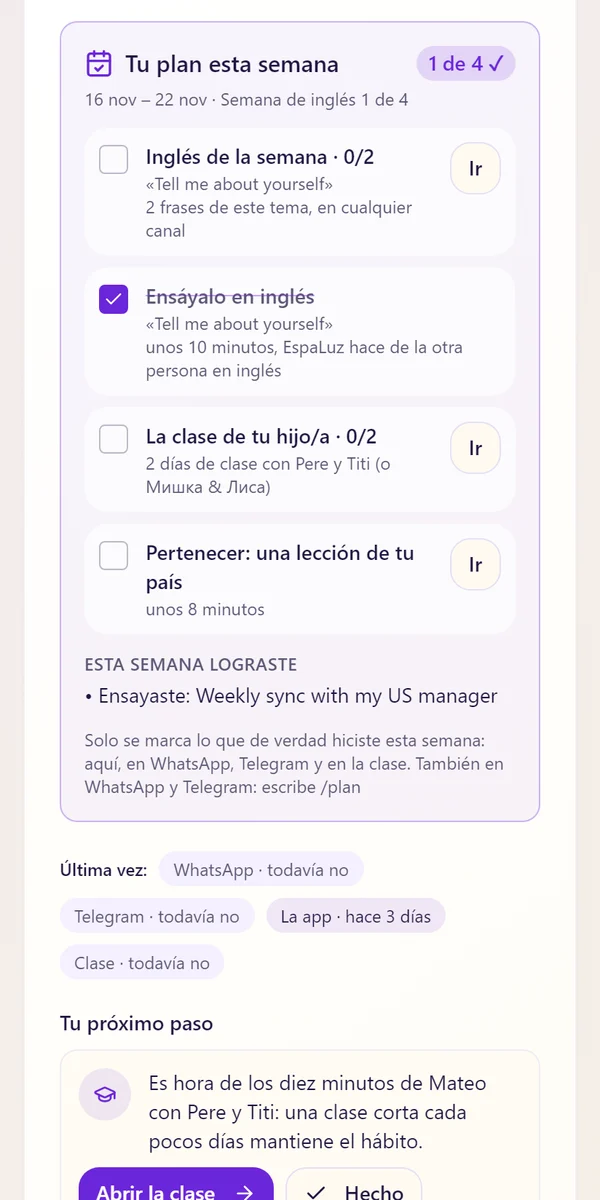
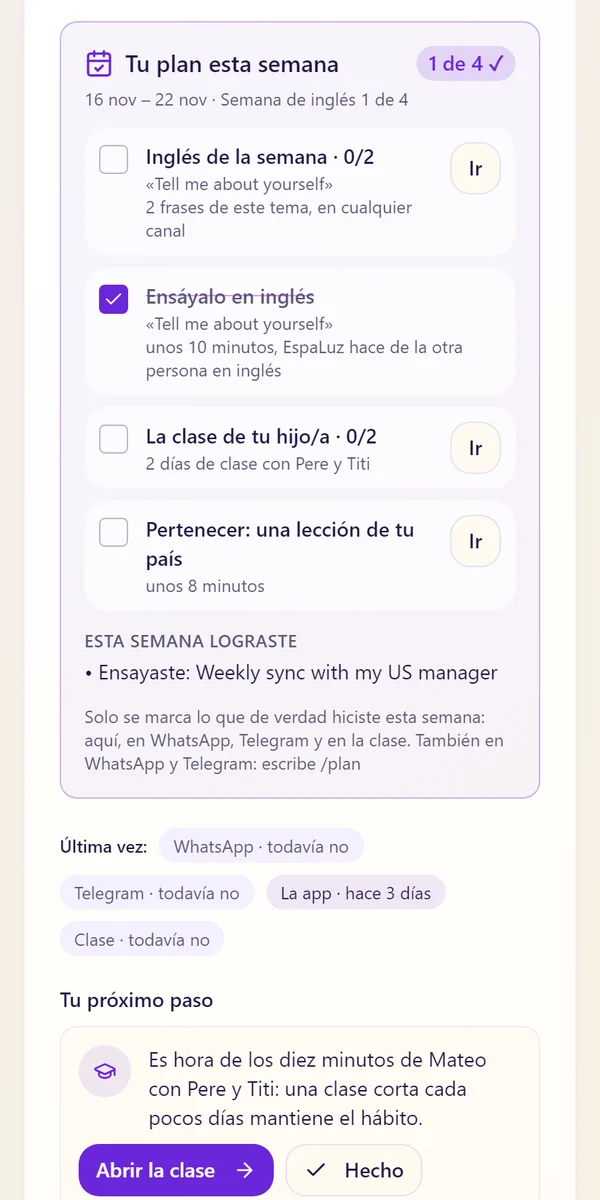
Strict readers fixes: settling families never get the beginner Spanish list (even before a country is set); header trial/plan badge translated (was English on ES/RU); Russian class mention on the Russian plan only; landing plan pictures recaptured

diff --git a/src/components/dashboard/LearningModules.tsx b/src/components/dashboard/LearningModules.tsx
@@ -102,7 +102,10 @@ export const LearningModules = () => {
   // lessons in one list, no level tabs, no badge - the most useful for a native speaker first, greetings last.
   const SETTLE_ORDER = ['local_expressions', 'time', 'newcomers_find_hard', 'school_life', 'family_and_friends', 'rhythm_of_the_year', 'folk_culture', 'everyday_life', 'food_and_table', 'greetings_and_courtesy'];
   const settleRank = (id: string) => { const i = SETTLE_ORDER.findIndex((k) => id.includes(k)); return i < 0 ? 99 : i; };
-  const settleList = settling && countryLessons.length > 0;
+  // 19 Nov 2026 (strict readers Carlos + Valentina): a settling family with no country yet (e.g. 'settle' typed on WhatsApp
+  // before the questionnaire) saw the BEGINNER Spanish list - Table 2 'must not happen'. Settling = never that list; with no
+  // country the list is empty and the existing line asks where home is now.
+  const settleList = settling;
   const filteredLessons = settleList
     ? [...countryLessons].filter((l) => !l.id.includes('greetings_and_courtesy')).sort((a, b) => settleRank(a.id) - settleRank(b.id)) // a native speaker does not need the greetings lesson
     : [...countryLessons, ...spanishLessons].filter(lesson => lesson.difficulty === selectedDifficulty);

diff --git a/src/pages/Dashboard.tsx b/src/pages/Dashboard.tsx
@@ -103,12 +103,12 @@ const Dashboard = () => {
 
   const getStatusBadge = () => {
     if (isSubscriptionActive) {
-      return <Badge variant="default" className="bg-green-500"><Crown className="h-3 w-3 mr-1" />Standard</Badge>;
+      return <Badge variant="default" className="bg-green-500"><Crown className="h-3 w-3 mr-1" />{t('badge.standard')}</Badge>;
     }
     if (isTrialActive) {
-      return <Badge variant="secondary"><Clock className="h-3 w-3 mr-1" />{trialDaysLeft} days trial</Badge>;
+      return <Badge variant="secondary"><Clock className="h-3 w-3 mr-1" />{t('badge.trial', { count: trialDaysLeft })}</Badge>;
     }
-    return <Badge variant="outline">Free</Badge>;
+    return <Badge variant="outline">{t('badge.free')}</Badge>; // 19 Nov 2026: the header badge was English on ES/RU dashboards
   };
 
   return (
